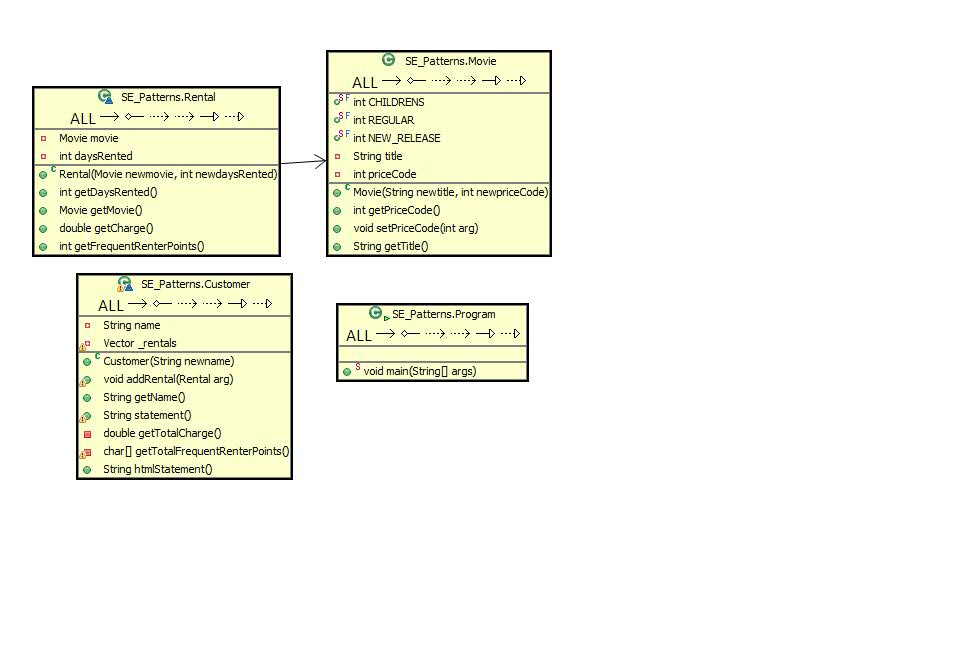
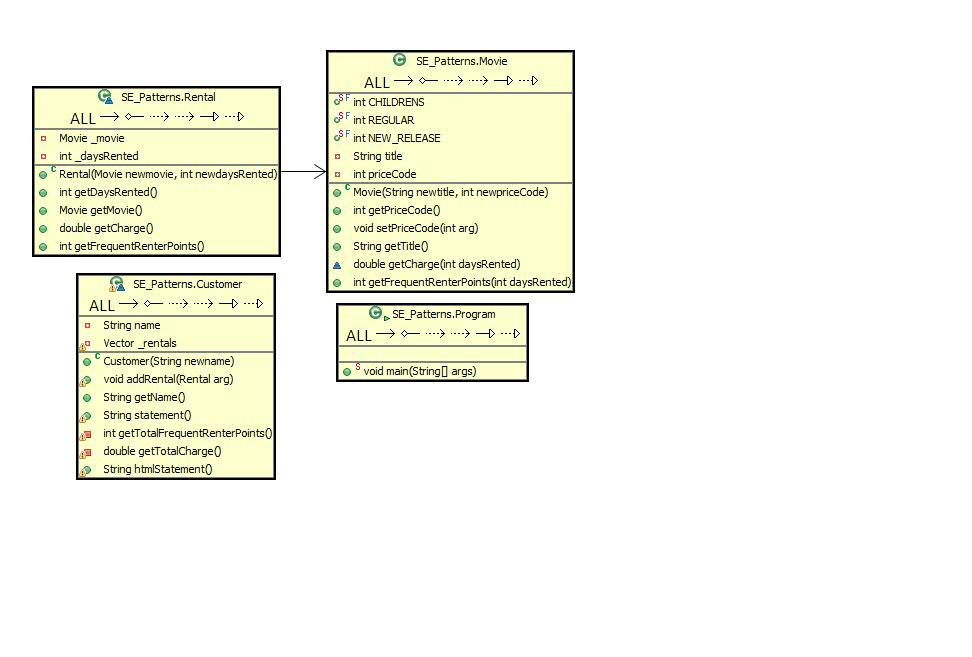
Move Methods getCharge and getFrequentRnterPoints to Movie

diff --git a/src/SE_Patterns/Movie.java b/src/SE_Patterns/Movie.java
@@ -1,21 +1,53 @@
 package SE_Patterns;
+
 public class Movie {
-    public static final int CHILDRENS = 2;
-    public static final int REGULAR = 0;
-    public static final int NEW_RELEASE = 1;
-    private String title;
-    private int priceCode;
-    public Movie(String newtitle, int newpriceCode) {
-        title = newtitle;
-        priceCode = newpriceCode;
-    }
-    public int getPriceCode() {
-        return priceCode;
-    }
-    public void setPriceCode(int arg) {
-        priceCode = arg;
-    }
-    public String getTitle (){
-        return title;
-    };
+	public static final int CHILDRENS = 2;
+	public static final int REGULAR = 0;
+	public static final int NEW_RELEASE = 1;
+	private String title;
+	private int priceCode;
+
+	public Movie(String newtitle, int newpriceCode) {
+		title = newtitle;
+		priceCode = newpriceCode;
+	}
+
+	public int getPriceCode() {
+		return priceCode;
+	}
+
+	public void setPriceCode(int arg) {
+		priceCode = arg;
+	}
+
+	public String getTitle() {
+		return title;
+	}
+
+	double getCharge(int daysRented) {
+		double result = 0;
+		switch (getPriceCode()) {
+		case Movie.REGULAR:
+			result += 2;
+			if (daysRented > 2)
+				result += (daysRented - 2) * 1.5;
+			break;
+		case Movie.NEW_RELEASE:
+			result += daysRented * 3;
+			break;
+		case Movie.CHILDRENS:
+			result += 1.5;
+			if (daysRented > 3)
+				result += (daysRented - 3) * 1.5;
+			break;
+		}
+		return result;
+	}
+
+	public int getFrequentRenterPoints(int daysRented) {
+		if ((getPriceCode() == Movie.NEW_RELEASE) && daysRented > 1)
+			return 2;
+		else
+			return 1;
+	}
 }

diff --git a/src/SE_Patterns/Rental.java b/src/SE_Patterns/Rental.java
@@ -1,48 +1,28 @@
 package SE_Patterns;
 
 class Rental {
-	private Movie movie;
-	private int daysRented;
+	private Movie _movie;
+	private int _daysRented;
 
 	public Rental(Movie newmovie, int newdaysRented) {
-		movie = newmovie;
-		daysRented = newdaysRented;
+		_movie = newmovie;
+		_daysRented = newdaysRented;
 	}
 
 	public int getDaysRented() {
-		return daysRented;
+		return _daysRented;
 	}
 
 	public Movie getMovie() {
-		return movie;
+		return _movie;
 	}
 
 	public double getCharge() {
-		double result = 0;
-		switch (getMovie().getPriceCode()) {
-		case Movie.REGULAR:
-			result += 2;
-			if (getDaysRented() > 2)
-				result += (getDaysRented() - 2) * 1.5;
-			break;
-		case Movie.NEW_RELEASE:
-			result += getDaysRented() * 3;
-			break;
-		case Movie.CHILDRENS:
-			result += 1.5;
-			if (getDaysRented() > 3)
-				result += (getDaysRented() - 3) * 1.5;
-			break;
-		}
-		return result;
+		return _movie.getCharge(_daysRented);
 	}
 
 	public int getFrequentRenterPoints() {
-		if ((getMovie().getPriceCode() == Movie.NEW_RELEASE)
-				&& getDaysRented() > 1)
-			return 2;
-		else
-			return 1;
+		return _movie.getFrequentRenterPoints(_daysRented);
 	}
 
 }
